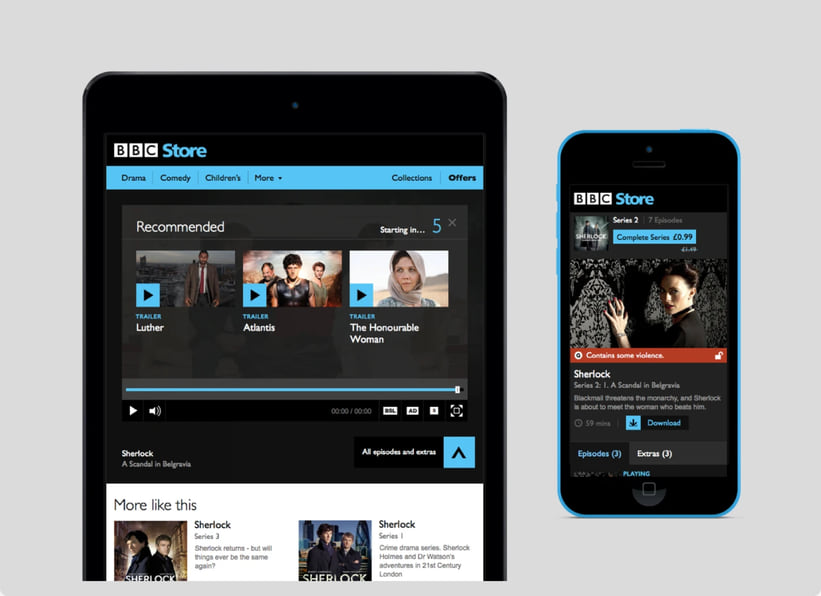
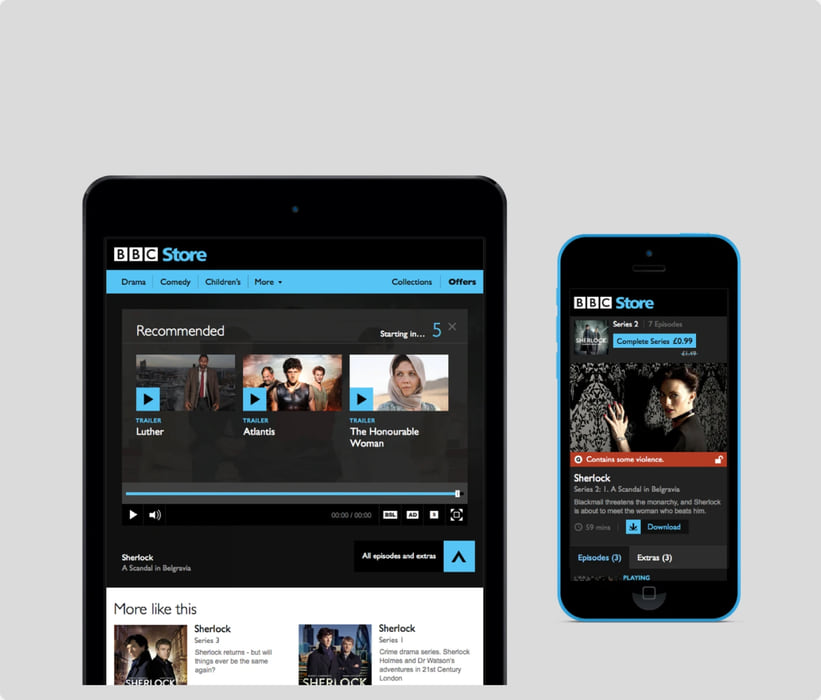
Archive 20b: back to a full-height card, top-aligned with 20a; devices sit on the panel's bottom edge as in Figma

diff --git a/site/archive.html b/site/archive.html
@@ -150,9 +150,8 @@
     <div class="media-pair">
       <img class="media-img" src="img/archive/20a-1x.jpg" srcset="img/archive/20a-1x.jpg 821w, img/archive/20a-2x.jpg 1641w"
            sizes="(max-width: 640px) calc(100vw - 32px), 47vw" alt="BBC Store on iPhone: Attenborough’s Finest Moments" width="821" height="700" loading="lazy" decoding="async">
-      <!-- 20b: exception, no padding above the devices; the card wraps the image and sits on the row's bottom edge -->
-      <img class="media-img" style="align-self: end;" src="img/archive/20b-1x.jpg" srcset="img/archive/20b-1x.jpg 821w, img/archive/20b-2x.jpg 1641w"
-           sizes="(max-width: 640px) calc(100vw - 32px), 47vw" alt="BBC Store on iPad and iPhone" width="821" height="596" loading="lazy" decoding="async">
+      <img class="media-img" src="img/archive/20b-1x.jpg" srcset="img/archive/20b-1x.jpg 821w, img/archive/20b-2x.jpg 1641w"
+           sizes="(max-width: 640px) calc(100vw - 32px), 47vw" alt="BBC Store on iPad and iPhone" width="821" height="700" loading="lazy" decoding="async">
     </div>
     <!-- 21 -->
     <img class="media-img media-img--box-sm" style="--box-bg: #eeeeee;" src="img/archive/21-1x.jpg" srcset="img/archive/21-1x.jpg 1673w, img/archive/21-2x.jpg 3346w"
